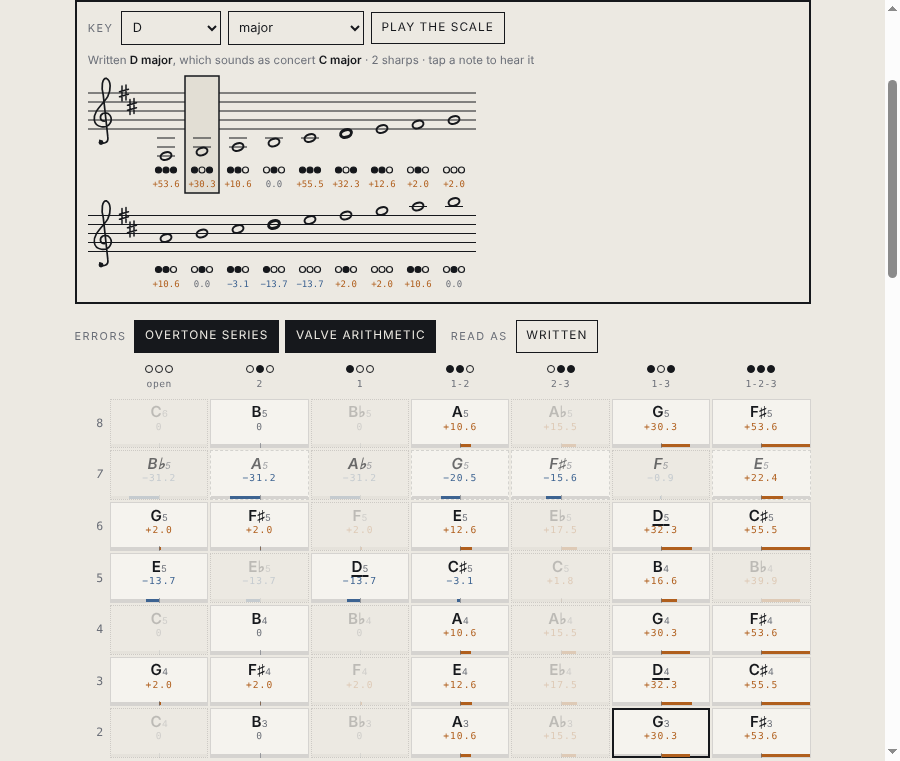
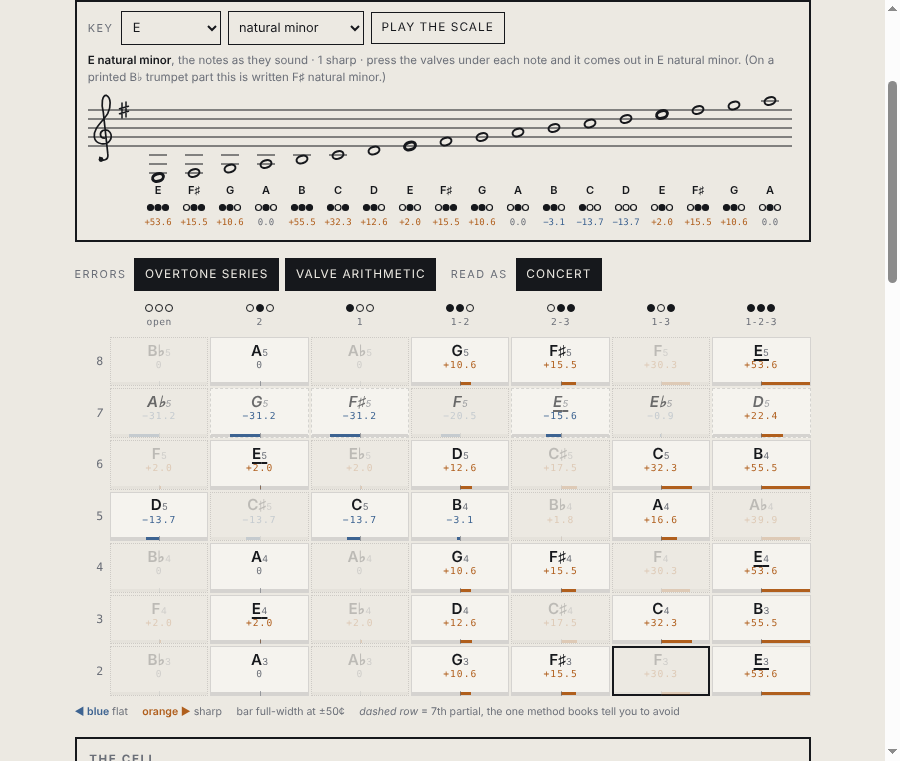
key: read concert by default, so the key you're told is the key on the staff
Pick E minor and the staff now shows E minor's notes as they sound, named
under each note, with the valves that make them. Read as defaults to
concert and drives the key menu, the staff and the chart together;
switching it to written redraws the staff as the printed B♭ part
(written F♯ minor). The setting is remembered per browser.

Claude-Session: https://claude.ai/code/session_01EshAgYiR2MvtKjRgb7XjjK

diff --git a/index.html b/index.html
@@ -84,6 +84,7 @@ select.pick:focus-visible { outline:2px solid var(--sharp); outline-offset:2px; 
              font-family:ui-monospace,Menlo,Consolas,monospace; }
 .score .ct.pos { fill:var(--sharp); } .score .ct.neg { fill:var(--flat); }
 .score .p7 { font-style:italic; }
+.score .nn { font-size:11px; font-weight:600; fill:var(--ink); text-anchor:middle; }
 
 /* ── the lattice ──────────────────────────────────────────── */
 .scroller { overflow-x:auto; margin:0 -.85rem; padding:0 .85rem; }
@@ -223,7 +224,7 @@ footer { margin-top:1.6rem; font-size:.68rem; color:var(--faint); }
   <button id="tPart" aria-pressed="true">Overtone series</button>
   <button id="tValve" aria-pressed="true">Valve arithmetic</button>
   <span class="lab cond" style="margin-left:.5rem">Read as</span>
-  <button id="tPitch" aria-pressed="false">Concert</button>
+  <button id="tPitch" aria-pressed="true">Concert</button>
 </div>
 
 <div class="scroller">
@@ -378,7 +379,7 @@ var SLOTS = [
 var PARTIALS = [8,7,6,5,4,3,2];         // drawn high to low
 var NAMES = ["C","C♯","D","E♭","E","F","F♯","G","A♭","A","B♭","B"];
 
-var rig = { cut3:3.2, pull3:0, pull1:0, showPartial:true, showValve:true, concert:false };
+var rig = { cut3:3.2, pull3:0, pull1:0, showPartial:true, showValve:true, concert:true };
 
 function valveLen(v) {
   if (v === 1) return L_OPEN * (Math.pow(SEMI, 2) - 1) + 2 * rig.pull1;
@@ -617,9 +618,10 @@ function select(p, si, play) {
 /* ══ the key ════════════════════════════════════════════════════════════
    Pick a key and the chart keeps only the cells that belong to it, spelled
    the way the key spells them, and the staff writes the scale out across the
-   whole horn with the fingering under each note. The key is held as a
-   written tonic, because that is what is on the page in front of a trumpet
-   player; "Read as concert" only changes what the menu calls it.            */
+   whole horn with the fingering under each note. "Read as" decides the pitch
+   of all of it: on concert (the default) you pick the key the band calls, and
+   the staff shows the notes you will hear. Internally the key is held as a
+   written tonic, because the fingerings are charted against written notes.  */
 
 var LETTERS = ["C","D","E","F","G","A","B"];
 var LETTER_PC = [0,2,4,5,7,9,11];
@@ -711,15 +713,20 @@ function hornRange() {
   });
   return [lo, hi];
 }
-/* Every note of the scale the horn can play, written, low to high. */
+/* The key the staff is drawn in: what you hear when reading concert, what is
+   on a B♭ part when reading written. */
+function staffKey() { return rig.concert ? KEY_C : KEY_W; }
+/* Every note of the scale the horn can play, low to high, at the pitch the
+   staff is drawn in. `midi` is that pitch; the fingering is looked up by the
+   written note, because that is what the valves are charted against. */
 function scaleNotes() {
   if (!KEY_W) return [];
-  var r = hornRange(), out = [];
-  for (var m = r[0]; m <= r[1]; m++) {
-    var n = keyNote(m, false);
+  var r = hornRange(), out = [], shift = rig.concert ? TRANSPOSE : 0;
+  for (var m = r[0] - shift; m <= r[1] - shift; m++) {
+    var n = keyNote(m, rig.concert);
     if (!n) continue;
     var octave = Math.floor((m - n.alter) / 12) - 1;
-    out.push({ midi:m, n:n, step:n.letter + 7 * octave, c:fingeringFor(m) });
+    out.push({ midi:m, n:n, step:n.letter + 7 * octave, c:fingeringFor(m + shift) });
   }
   return out;
 }
@@ -749,15 +756,23 @@ function keyOptions() {
       "written out below with a fingering under every note.";
     return;
   }
-  var count = KEY_W.sig.filter(function (a) { return a !== 0; }).length;
-  var sharp = KEY_W.sig.some(function (a) { return a > 0; });
-  cap.innerHTML = "Written <b>" + KEY_W.name + "</b>, which sounds as concert <b>" +
-    KEY_C.name + "</b> · " + (count ? count + " " + (sharp ? "sharp" : "flat") +
-    (count > 1 ? "s" : "") : "no sharps or flats") + " · tap a note to hear it";
+  var K = staffKey();
+  var count = K.sig.filter(function (a) { return a !== 0; }).length;
+  var sharp = K.sig.some(function (a) { return a > 0; });
+  var sig = count ? count + " " + (sharp ? "sharp" : "flat") + (count > 1 ? "s" : "")
+                  : "no sharps or flats";
+  // Concert is the default because it is what the rest of the band calls the key:
+  // the staff shows the notes you hear, and the valves under them are what to press.
+  cap.innerHTML = rig.concert
+    ? "<b>" + KEY_C.name + "</b>, the notes as they sound · " + sig +
+      " · press the valves under each note and it comes out in " + KEY_C.name +
+      ". (On a printed B♭ trumpet part this is written " + KEY_W.name + ".)"
+    : "Written <b>" + KEY_W.name + "</b>, as it is printed on a B♭ part · " + sig +
+      " · it sounds as concert " + KEY_C.name + ".";
 }
 
 /* ── the staff ──────────────────────────────────────────────────────────
-   Treble clef at written pitch, whole notes, one bar per line so an
+   Treble clef at the pitch the page is reading (concert unless you switch), whole notes, one bar per line so an
    accidental lasts to the end of the line. Steps count diatonic positions:
    letter + 7 × octave, so E4 (the bottom line) is 30 and F5 (the top) 38. */
 
@@ -798,8 +813,9 @@ function paintScore() {
   if (!notes.length) { scoreEl.innerHTML = ""; return; }
   var W = scoreEl.clientWidth || 340;
   scoreW = W;
-  var sigN = KEY_W.sig.filter(function (a) { return a !== 0; }).length;
-  var sigDir = KEY_W.sig.some(function (a) { return a > 0; }) ? 1 : -1;
+  var K = staffKey();
+  var sigN = K.sig.filter(function (a) { return a !== 0; }).length;
+  var sigDir = K.sig.some(function (a) { return a > 0; }) ? 1 : -1;
   var head = 36 + sigN * 8 + 8, gap = W < 420 ? 30 : 36;
   // as few lines as fit, then shared out evenly so no note is left alone on the last
   var fit = Math.max(4, Math.floor((W - head - 4) / gap));
@@ -813,11 +829,12 @@ function paintScore() {
     var hiY = Math.min.apply(null, line.map(function (o) { return yStep(o.step); }));
     var loY = Math.max.apply(null, line.map(function (o) { return yStep(o.step); }));
     var y0 = Math.min(TOP - 18, hiY - 8);
-    var dotsY = Math.max(TOP + 6 * SP, loY + 14);
+    var nameY = Math.max(TOP + 6 * SP, loY + 16);
+    var dotsY = nameY + 14;
     var H = dotsY + 24 - y0;
     var g = '<svg viewBox="0 ' + y0 + " " + w + " " + H + '" width="' + w + '" height="' + H +
-      '" style="max-width:' + w + 'px" role="group" aria-label="' + KEY_W.name +
-      ', written, notes ' + (start + 1) + " to " + (start + line.length) + '">';
+      '" style="max-width:' + w + 'px" role="group" aria-label="' + K.name +
+      (rig.concert ? ", as it sounds" : ", written") + ', notes ' + (start + 1) + " to " + (start + line.length) + '">';
     for (var i = 0; i < 5; i++)
       g += '<line class="ln" x1="0" x2="' + w + '" y1="' + (TOP + i * SP) + '" y2="' + (TOP + i * SP) + '"/>';
     g += '<path class="clef" d="' + clefPath(4) + '"/>' +
@@ -825,7 +842,7 @@ function paintScore() {
     // the key signature, in the order it is always written
     var sx = 36;
     SIG_ORDER[sigDir].forEach(function (l, k) {
-      if (KEY_W.sig[l] === 0) return;
+      if (K.sig[l] === 0) return;
       g += '<path class="acc" stroke-width="1.5" d="' + accPath(sigDir, sx, yStep(SIG_STEPS[sigDir][k])) + '"/>';
       sx += 8;
     });
@@ -834,23 +851,25 @@ function paintScore() {
     line.forEach(function (o, j) {
       var x = head + j * gap + gap / 2, y = yStep(o.step), c = o.c;
       var sel = c && selected.p === c.p && selected.si === c.si;
-      var nm = nameIn(o.midi, false);
+      var nm = nameIn(o.midi, rig.concert);
       var t = signed(c.cents);
       g += '<g class="sn' + (sel ? " on" : "") + (o.n.deg === 0 ? " tonic" : "") +
         '" tabindex="0" role="button" data-p="' + c.p + '" data-si="' + c.si + '" aria-label="' +
-        "written " + nm.pc + nm.oct + ", valves " + c.slot.nm + ", partial " + c.p + ", " +
+        (rig.concert ? "" : "written ") + nm.pc + nm.oct + ", valves " + c.slot.nm + ", partial " + c.p + ", " +
         t.t + ' cents">' +
         '<rect class="hit" x="' + (x - gap / 2 + 1) + '" y="' + (y0 + 1) + '" width="' + (gap - 2) + '" height="' + (H - 2) + '"/>';
       for (var ls = 40; ls <= o.step; ls += 2)
         g += '<line class="ln" x1="' + (x - 9) + '" x2="' + (x + 9) + '" y1="' + yStep(ls) + '" y2="' + yStep(ls) + '"/>';
       for (ls = 28; ls >= o.step; ls -= 2)
         g += '<line class="ln" x1="' + (x - 9) + '" x2="' + (x + 9) + '" y1="' + yStep(ls) + '" y2="' + yStep(ls) + '"/>';
-      var sk = o.step, cur = sk in state ? state[sk] : KEY_W.sig[o.n.letter];
+      var sk = o.step, cur = sk in state ? state[sk] : K.sig[o.n.letter];
       if (cur !== o.n.alter) {
         g += '<path class="acc" stroke-width="1.4" d="' + accPath(o.n.alter, x - 13, y) + '"/>';
         state[sk] = o.n.alter;
       }
       g += '<ellipse class="head" cx="' + x + '" cy="' + y + '" rx="5.6" ry="3.7" transform="rotate(-18 ' + x + " " + y + ')"/>';
+      // the name, so nobody has to count ledger lines to know what they're playing
+      g += '<text class="nn" x="' + x + '" y="' + nameY + '">' + nm.pc + "</text>";
       // the fingering, drawn like the column heads: three valves, the pressed ones filled
       [1,2,3].forEach(function (v, k) {
         g += '<circle class="vd' + (c.slot.v.indexOf(v) >= 0 ? " on" : "") + '" cx="' + (x - 7.5 + k * 7.5) +
@@ -930,10 +949,13 @@ document.getElementById("tPitch").addEventListener("click", function () {
   rig.concert = !rig.concert;
   this.setAttribute("aria-pressed", String(rig.concert));
   this.textContent = rig.concert ? "Concert" : "Written";
+  try { localStorage.setItem("slot.read", rig.concert ? "concert" : "written"); } catch (e) {}
   keyOptions();
   paint();
 });
-document.getElementById("tPitch").textContent = "Written";
+try { if (localStorage.getItem("slot.read") === "written") rig.concert = false; } catch (e) {}
+document.getElementById("tPitch").textContent = rig.concert ? "Concert" : "Written";
+document.getElementById("tPitch").setAttribute("aria-pressed", String(rig.concert));
 
 function wireSlider(id, key, fmt, out) {
   var el = document.getElementById(id), o = document.getElementById(out);

diff --git a/README.md b/README.md
@@ -6,7 +6,7 @@ An interactive chart of B♭ trumpet fingerings that shows how sharp or flat eac
 
 Live: https://ampactor.dev/slot/
 
-![The chart in the light theme at the ideal valve-3 cut, with written C♯4 selected](docs/img/lattice-light.png)
+![The chart in the light theme at the ideal valve-3 cut, with written C♯4 (concert B3) selected](docs/img/lattice-light.png)
 
 ## Quick start
 
@@ -26,9 +26,9 @@ The live copy at https://ampactor.dev/slot/ uses HTTPS, which also counts.
 
 The page does four jobs, and a panel of controls sets up the horn it models.
 
-**Play in a key.** Pick a tonic and a scale in the *Key* box at the top: major, natural minor, harmonic minor, major or minor pentatonic, or blues. The chart dims every cell outside the key (they stay tappable) and underlines the tonic, and its note names switch to the key's spelling, so F♯ major shows E♯ rather than F. Under the menu, the scale is written out on a treble staff at written pitch with its key signature, from the lowest note the horn has in that key to the highest. Under each note are the valves to press and how many cents that fingering plays off. The fingering is the one a method book prints: the fewest valves, and partial 7 only when nothing else reaches the note. Tap a note to hear it and select its cell; *Play the scale* runs from the lowest tonic to the highest and back. The menu names keys in whichever pitch *Read as* is set to, so with it on concert, picking B♭ writes the staff in C. The page remembers the last key in that browser.
+**Play in a key.** When a guitarist says "E minor", pick E and *natural minor* in the *Key* box at the top. The page reads concert pitch by default, which is what the rest of the band hears, so the staff shows E minor's own notes (E F♯ G A B C D, one sharp), and you never do the B♭ transposition yourself. Each note on the staff has its name, the valves to press, and how many cents that fingering plays off. Press those valves and the horn sounds E minor; *Play the scale* plays it from the lowest E to the highest and back, and tapping a note plays it and selects its cell. The fingering is the one a method book prints: the fewest valves, and partial 7 only when nothing else reaches the note. The chart dims every cell outside the key (they stay tappable), underlines the tonic, and spells notes the key's way, so F♯ major shows E♯ rather than F. The scales are major, natural minor, harmonic minor, major and minor pentatonic, and blues. Switch *Read as* to written when you're reading a printed B♭ trumpet part: the menu, the staff and the chart all move to written pitch together, so concert E minor becomes written F♯ minor, two sharps. The page remembers the key and the *Read as* setting in that browser.
 
-![Written D major on the staff with its fingerings, and the chart dimmed to the notes of the key](docs/img/key.png)
+![Concert E minor on the staff with the valves under each note, and the chart dimmed to the notes of the key](docs/img/key.png)
 
 **Read the map.** Each column is a fingering, running from open (the shortest tube) to all three valves down (the longest). The page and its code call a column a slot. Each row is a partial. The lips pick one of the natural overtones of whatever tube the valves make, and partial n vibrates at n times that tube's lowest frequency; together the partials form the harmonic series. Each cell is one note, named as written for B♭ trumpet, which is a whole step above the concert pitch that sounds (C4 is middle C). Under the name is the note's error in cents against 12-tone equal temperament. That is the standard tuning, with 12 equal semitones to the octave and the A above middle C at 440 Hz (A440). A cent is a hundredth of a semitone. Color shows the error, blue for flat and orange for sharp. The printed number and a bar at the foot of each cell repeat it, and the bar reaches the cell's edge at ±50 cents, so color is never the only channel. Tap a cell to hear what that fingering produces.
 
@@ -36,7 +36,7 @@ The page does four jobs, and a panel of controls sets up the horn it models.
 
 **Check yourself against it.** Press *Listen* and play. The page names the partial and the slot you landed on. It shows how far you are from where the tube sits and from the tempered note. It also lights the matching cell, and a needle shows the distance from the tempered note. For long tones it adds a steadiness figure, the spread of your pitch over the last second and a half. The ear always measures against the full model with both errors on, whatever the display toggles are set to.
 
-**The rig.** Sliders pull the third-valve slide out by up to 40 mm and the first-valve slide by up to 20 mm. A third slider sets how long valve 3's tubing is cut, measured as how many semitones it lowers the open horn, from 3.00 to 3.40. A cut of 3.00 is the ideal cut, and the page opens on the longer *Maker's compromise* preset of 3.20 (Limitations explains why). The other presets restore the ideal cut or push both slides back in. Two toggles turn the overtone error and the valve error off independently, and *Read as* switches the note names between written and concert pitch.
+**The rig.** Sliders pull the third-valve slide out by up to 40 mm and the first-valve slide by up to 20 mm. A third slider sets how long valve 3's tubing is cut, measured as how many semitones it lowers the open horn, from 3.00 to 3.40. A cut of 3.00 is the ideal cut, and the page opens on the longer *Maker's compromise* preset of 3.20 (Limitations explains why). The other presets restore the ideal cut or push both slides back in. Two toggles turn the overtone error and the valve error off independently, and *Read as* switches the note names, the key menu and the staff between concert pitch (the default) and written pitch.
 
 ## How it works
 
@@ -117,7 +117,7 @@ The second suite drives headless Chrome through the DevTools protocol. It needs 
 node tools/cdp.mjs http://localhost:8000/index.html $PWD/tools/checks.mjs
 ```
 
-It runs 80 checks in the live page. They check that the grid has 49 cells, that the page opens on the maker's-compromise cut, and that the published figures hold at the ideal cut. Others check that each toggle zeroes the layer it names, that written pitch sits two semitones above concert in every cell, and that the slide corrects the note it is pulled for and detunes the fingering it shares. The audio graph has to build, with sound muted. Headless Chrome has no microphone, so the suite feeds synthetic tones straight into `detect()`: a low C, a high C, a tone with its fundamental removed, silence, and noise. It then narrows the viewport to 360 by 740 pixels. There it checks that the page does not scroll sideways, that the grid does, that the partial numbers stay pinned while the grid scrolls, and that every cell is still at least 44 pixels tall. The key checks pick written C major and assert which cells dim, the 18 notes on the staff, the fingerings it prints, and that tapping a note selects its cell. They check spellings that only come out right if the key spells them: E♯ in F♯ major, F𝄪 in G♯ harmonic minor, B♯3 rather than B♯4, and the natural sign the blues scale needs. The last checks assert that the manifest parses, that a service worker takes the page, that every file it needs is in its cache, and that the page still builds after a reload through the worker. Any uncaught page exception fails the run, which is how a `var history` collision that had silently stopped the whole script was found. The run also rewrites the four screenshots in `docs/img/`.
+It runs 86 checks in the live page. They check that the grid has 49 cells, that the page opens on the maker's-compromise cut, and that the published figures hold at the ideal cut. Others check that each toggle zeroes the layer it names, that the grid reads concert by default, that written pitch sits two semitones above concert in every cell, and that the slide corrects the note it is pulled for and detunes the fingering it shares. The audio graph has to build, with sound muted. Headless Chrome has no microphone, so the suite feeds synthetic tones straight into `detect()`: a low C, a high C, a tone with its fundamental removed, silence, and noise. It then narrows the viewport to 360 by 740 pixels. There it checks that the page does not scroll sideways, that the grid does, that the partial numbers stay pinned while the grid scrolls, and that every cell is still at least 44 pixels tall. The key checks pick concert E minor and assert that the staff shows E minor's notes with its one sharp, that the E is fingered as written F♯ (valve 2), and that every note it plays sounds at the pitch the staff shows. They then pick written C major and assert which cells dim, the 18 notes on the staff, the fingerings it prints, and that tapping a note selects its cell. They check spellings that only come out right if the key spells them: E♯ in F♯ major, F𝄪 in G♯ harmonic minor, B♯3 rather than B♯4, and the natural sign the blues scale needs. The last checks assert that the manifest parses, that a service worker takes the page, that every file it needs is in its cache, and that the page still builds after a reload through the worker. Any uncaught page exception fails the run, which is how a `var history` collision that had silently stopped the whole script was found. The run also rewrites the four screenshots in `docs/img/`.
 
 Neither suite covers a real horn, a real microphone, any browser other than Chrome, installing to a real phone, or whether the page is pleasant to use.
 
